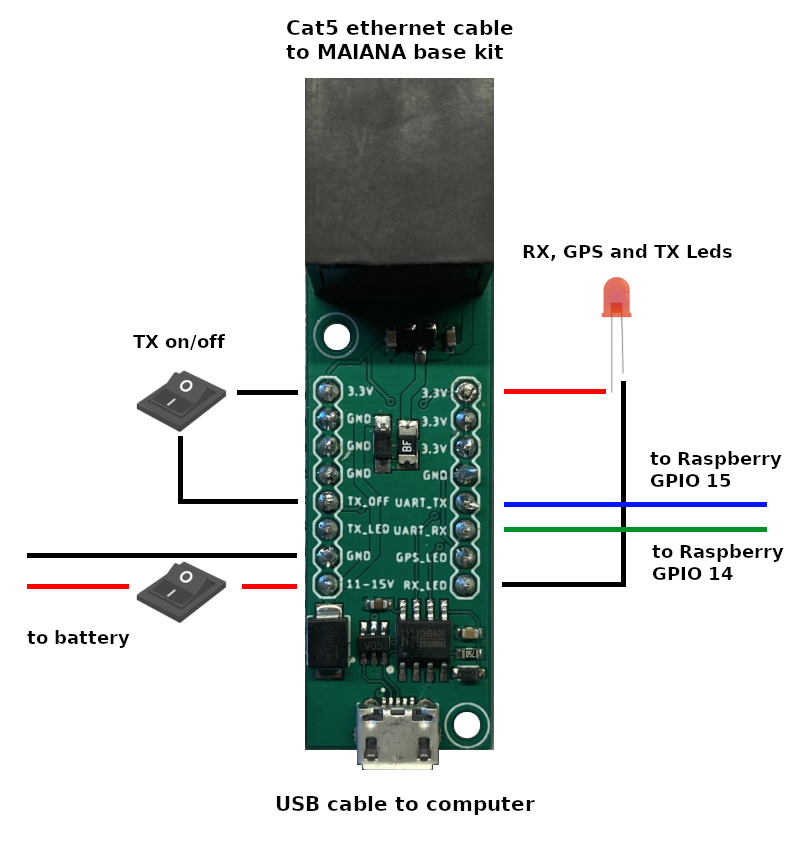
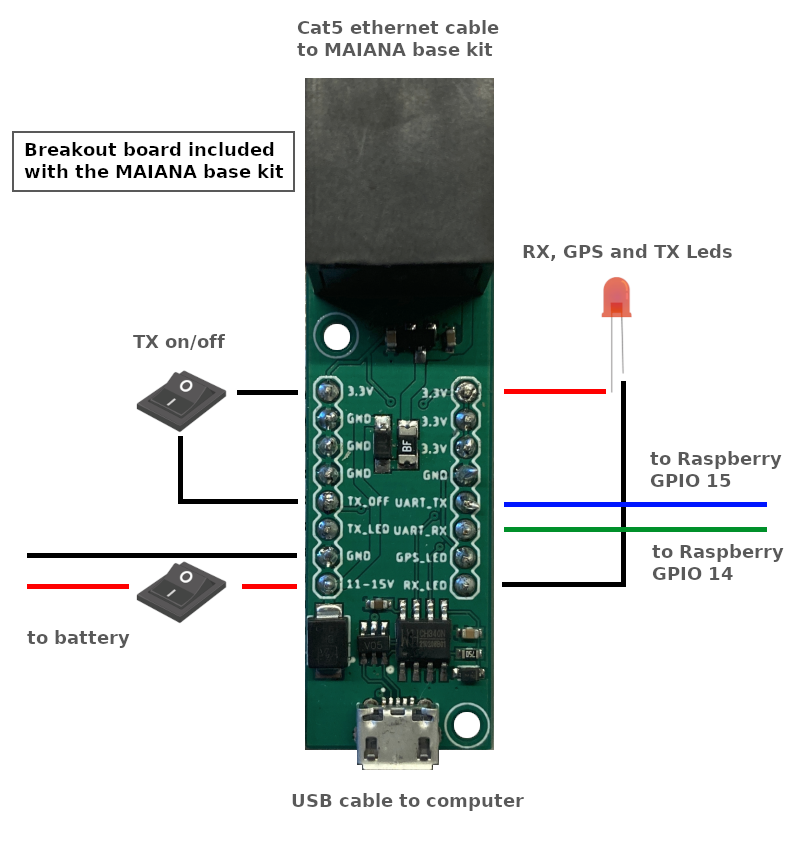
update MAIANA

diff --git a/maiana/connecting.rst b/maiana/connecting.rst
@@ -1,40 +1,39 @@
 Connecting the base kit
 #######################
 
-After the MAIANA base kit assembly process, you need to connect it to your boat via the Cat5 ethernet cable to power it, get AIS/GNSS data and configure the device  You have 4 options:
+After the MAIANA base kit assembly process, you need to connect it to your boat via the Cat5 ethernet cable to power it, get AIS/GNSS data and configure the device. You have 4 options:
 
+Breakout board
+**************
 
-USB adapter
-***********
+This board is included with the base kit and it is designed so that you can incorporate MAIANA into your projects. Both USB and UART connections are used to get AIS/GNSS data, configure the device or update the firmware.
 
-Both USB and UART connections are used to get AIS/GNSS data, configure the device or update the firmware.
+ .. image:: img/usb-uart-adapter.png
+
+If you want a power and/or TX switch, you can use simple rocker switches. A 1A-rated SPST can simply interrupt the main 12V supply.
+
+If you want a hardware switch for *silent mode*, you need to remember that transmission is disabled if the TX_OFF signal is driven to a logic *high* (above 2V), so wire it as shown in the picture.
+
+The LED signals are open drain outputs. Rather than supplying a voltage, they pull the cathode of the
+LED to GND via a built-in 100 Ohm resistor. The voltage you apply to the anode is flexible (up to 30V tolerated), but the breakout supplies 3.3V so take advantage! That said, some LEDs may still draw too much current and will need an extra resistor added in series. You can wire that on either the anode or the cathode side.
+
+USB + UART adapter
+******************
+
+Both USB and UART connections are used to get AIS/GNSS data, configure the device or update the firmware. This adapter has the same functions as the included *breakout board* but incorporates status LEDs, switches and is soldered and assembled.
 
 .. image:: img/usb-adapter.png
 
 USB + RS422 Adapter
 *******************
 
-USB connection is used to get AIS/GNSS data, configure the device or update the firmware. RS422 connection is used only to send AIS/GNSS data to the NMEA 0183 network of your boat.
+USB connection is used to get AIS/GNSS data, configure the device or update the firmware. RS422 connection is used only to send AIS/GNSS data to the NMEA 0183 network of your boat. This adapter incorporates status LEDs, switches and is soldered and assembled.
 
 .. image:: img/usb-rs422-adapter.png
 
 USB + CAN Adapter
 *****************
 
-USB connection is used to get AIS/GNSS data, configure the device or update the firmware. CAN connection is used only to send AIS/GNSS data to the NMEA 2000 network of your boat and power the device.
+USB connection is used to get AIS/GNSS data, configure the device or update the firmware. CAN connection is used only to send AIS/GNSS data to the NMEA 2000 network of your boat and power the device. This adapter incorporates status LEDs, switches and is soldered and assembled.
 
 .. image:: img/usb-can-adapter.png
-
-USB + UART adapter
-******************
-
-This adapter is included with the base kit and it is designed so that you can incorporate MAIANA into your projects. USB and UART connections are used to get AIS/GNSS data, configure the device or update the firmware.
-
- .. image:: img/usb-uart-adapter.png
-
-If you want a power and/or TX switch, you can use simple rocker switches as shown in the picture. A 1A-rated SPST can simply interrupt the main 12V supply.
-
-If you want a hardware switch for “silent mode”, you need to remember that transmission is disabled if the TX_OFF signal is driven to a logic “high” (above 2V), so wire it as shown in the picture.
-
-The LED signals are open drain outputs. Rather than supplying a voltage, they pull the cathode of the
-LED to GND via a built-in 100 Ohm resistor. The voltage you apply to the anode is flexible (up to 30V tolerated), but the breakout supplies 3.3V so take advantage! That said, some LEDs may still draw too much current and will need an extra resistor added in series. You can wire that on either the anode or the cathode side.

diff --git a/maiana/configuring.rst b/maiana/configuring.rst
@@ -1,29 +1,44 @@
 Configuring OpenPlotter
 #######################
 
-Under construction
+You can configure OpenPlotter to get AIS and GNSS data from a MAIANA transponder with just a few clicks. You will also learn how to enable transmission, configure the device, and update the firmware.
 
 Getting AIS and GNSS data
 *************************
 
-Under construction
+MAIANA is ready to rceive and send AIS and GNSS data out of the box, just power on the device and connect by USB or UART to OpenPlotter. We want to send MAIANA data to the Signal K server so that any program like OpenCPN can access AIS and GNSS data. We will do it easily using the *OpenPlotter Serial* app.
+
+
+If you are connected by UART, first of all you need to enable the UART interface of your Raspberry Pi. Click ``UART`` and then click ``Yes``. Remember that enabling the UART interface will disable Bluetooth. If you are connected by USB, skip this step.
 
 .. image:: img/maiana8.png
 .. image:: img/maiana9.png
+
+After enabling UART or just plugging in the USB and clicking ``Refresh``, you will see a new device listed. Select this new device and provide a short name for the *alias* and select NMEA 0183 under *data*. If it is connected by USB check *Remember device* and if it is connected by UART check *Remember port*. Click ``Apply`` when done.
+
 .. image:: img/maiana10.png
 .. image:: img/maiana11.png
+
+Go to the *Connections* tab and select the new device you just created. Click ``Add to Signal K`` and then click ``AUTO``. A connection will be created on the Signal K server for your device.
+
 .. image:: img/maiana12.png
 .. image:: img/maiana13.png
 .. image:: img/maiana14.png
+
+Make sure there is an OpenCPN enabled connection to the Signal K server and your are done.
+
 .. image:: img/maiana15.png
 .. image:: img/maiana16.jpg
 
 Connecting to MAIANA
 ********************
 
-Under construction
+Using the *OpenPlotter MAIANA AIS transponder* app you can manage all the settings of your device. Open *OpenPlotter Settings* app, select this app and click ``Install``.
 
 .. image:: img/maiana17.png
+
+Under construction
+
 .. image:: img/maiana18.png
 .. image:: img/maiana19.png
 .. image:: img/maiana20.png

diff --git a/maiana/maiana_app.rst b/maiana/maiana_app.rst
@@ -28,9 +28,9 @@ To complete the installation you will need:
 - A pair of strong scissors for cutting (thick) heat shrink tubing.
 - A heat gun for the heat shrink tubing. You will need this both on your workbench for the initial assembly, as well as on your boat for the final installation. Alternatives: `How to Use Heat Shrink Tubing Without a Hot Air Gun <https://clevercreations.org/heat-shrink-tubing-without-heat-gun/>`_.
 - 1” OD steel railing or a similar diameter fiberglass mast on your boat. This is the preferred way to mount the unit. You may, of course, use your own mechanism, but then you are responsible for sealing the (bottom) cable end from moisture.
-- A Cat5 cable for connecting the main unit to the breakout board in the cabin. Pick one with appropriate length and flexibility to suit your installation. The exact configuration of the cable (568A or 568B) is not important.
+- A Cat5 cable for connecting the main unit to the breakout board/adapter in the cabin. Pick one with appropriate length and flexibility to suit your installation. The exact configuration of the cable (568A or 568B) is not important.
 - Some kind of instant glue to secure the end cap of the antenna tube.
-- If you are using the included UART/USB adapter you will need a soldering iron for the RJ45 connector and “breakaway” pin headers. All other optional adapters are mounted and soldered.
+- If you are using the included breakout board you will need a soldering iron for the RJ45 connector and “breakaway” pin headers. All other optional adapters are mounted and soldered.
 
 .. note::
 
